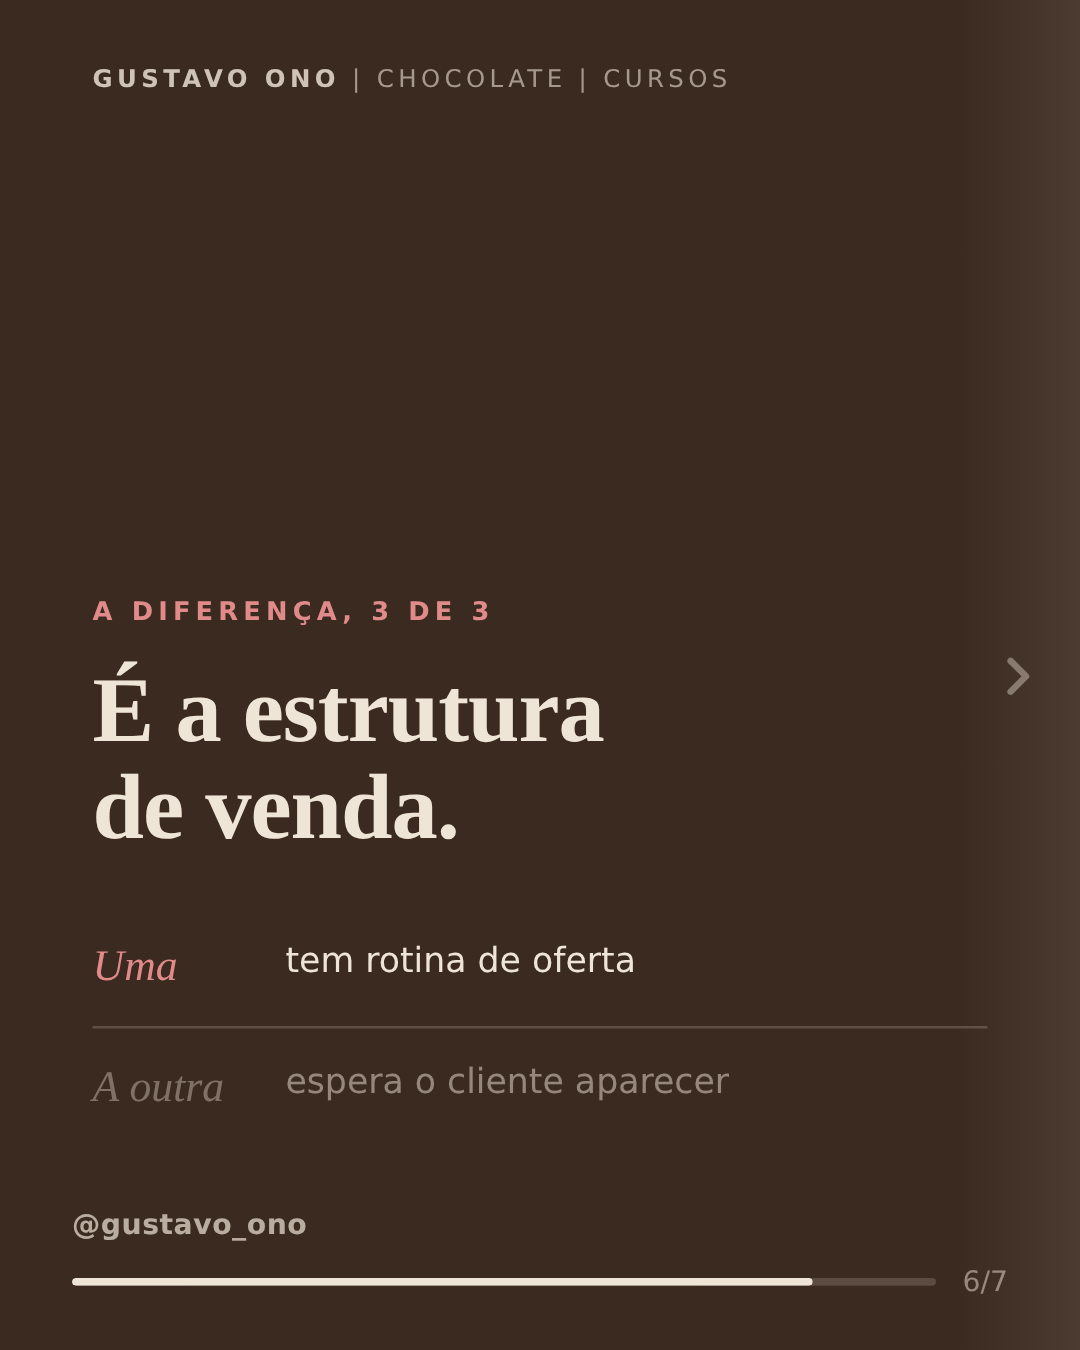
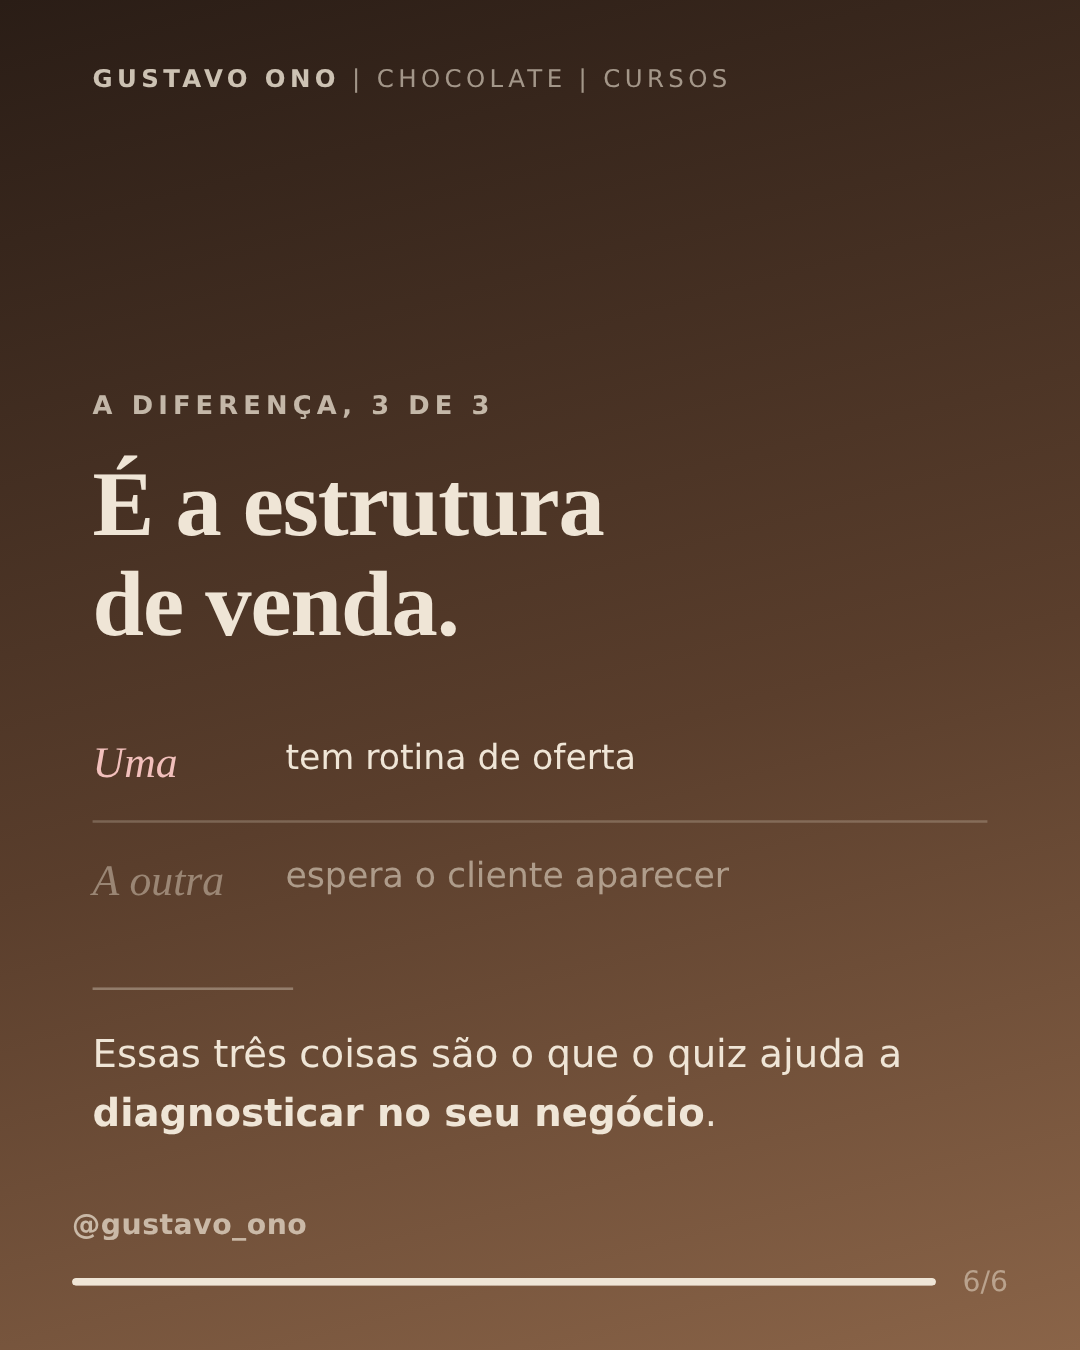
fix(gustavo-ono): usa a copy do cliente na integra, 6 slides
A versao anterior tinha dois erros de copy. O slide 1 trocava a linha do
cliente por um "Duas chocolateiras / Mesmo produto" modelado no criativo de
referencia: os criativos eram espelho de identidade visual, nao fonte de
texto. E havia um setimo slide de CTA com frase inventada, que ainda partia
o bloco 6 do cliente ao meio.

Agora sao 6 slides, um por bloco da copy enviada, sem reescrita e sem
acrescimo. O slide 6 fecha o carrossel sobre o gradiente, sem seta e com a
barra cheia, carregando a frase final sobre o quiz.

Ajustes de layout que vieram junto: quebras de linha manuais no titulo do
slide 1 para o rag ficar regular, e o bloco de contraste "Uma / A outra"
ganhou variante de cor para fundo gradiente, que antes so tinha regra para
creme e cacau.

Claude-Session: https://claude.ai/code/session_01CauAQVWzNLDYnJacSfuF1z

diff --git a/clientes/gustavo-ono/copy/carrosseis/2026-07-30-fatura-bem-fatura-pouco/carrossel.html b/clientes/gustavo-ono/copy/carrosseis/2026-07-30-fatura-bem-fatura-pouco/carrossel.html
@@ -118,17 +118,18 @@ body{
 .vs{margin-top:20px}
 .vs-row{display:flex;gap:13px;align-items:flex-start;padding:12px 0}
 .vs-row + .vs-row{border-top:1px solid var(--cream-line)}
-.bg-dark .vs-row + .vs-row{border-top-color:rgba(239,229,214,.2)}
+.bg-dark .vs-row + .vs-row,.bg-grad .vs-row + .vs-row{border-top-color:rgba(239,229,214,.24)}
 .vs-key{font-family:var(--font-display);font-size:17px;font-style:italic;line-height:1.2;flex:0 0 62px;padding-top:1px}
 .vs-a .vs-key{color:var(--brown)}
 .bg-dark .vs-a .vs-key{color:var(--salmon)}
+.bg-grad .vs-a .vs-key{color:#F2C0BC}
 .vs-b .vs-key{color:var(--brown-soft);opacity:.85}
-.bg-dark .vs-b .vs-key{color:rgba(239,229,214,.45)}
+.bg-dark .vs-b .vs-key,.bg-grad .vs-b .vs-key{color:rgba(239,229,214,.5)}
 .vs-tx{font-size:13.5px;line-height:1.45;font-weight:500}
 .bg-light .vs-a .vs-tx{color:var(--ink)}
 .bg-light .vs-b .vs-tx{color:#8A7565}
-.bg-dark .vs-a .vs-tx{color:var(--cream)}
-.bg-dark .vs-b .vs-tx{color:rgba(239,229,214,.5)}
+.bg-dark .vs-a .vs-tx,.bg-grad .vs-a .vs-tx{color:var(--cream)}
+.bg-dark .vs-b .vs-tx,.bg-grad .vs-b .vs-tx{color:rgba(239,229,214,.55)}
 
 .cta-btn{display:inline-flex;align-items:center;gap:8px;padding:14px 30px;background:var(--cream);color:var(--cocoa);font-family:var(--font-text);font-weight:700;font-size:14px;border-radius:30px}
 </style>
@@ -208,13 +209,12 @@ function vs(uma, outra){
 /* ---------- os slides ---------- */
 const SLIDES = [
 
-  // 1 — gancho. Espelha a estrutura do criativo "Duas confeiteiras."
+  // 1 — gancho
   { bg:'light', pos:'center', html: `
     <div class="bracket">
-      <h1 class="t-xl">Duas<br>chocolateiras.</h1>
-      <p class="body sans" style="margin-top:12px;font-size:15px;"><b>Mesmo</b> produto. <b>Faturamentos</b> diferentes.</p>
+      <h1 class="t-lg" style="font-size:31px;">O que separa<br>a chocolateira que<br>fatura bem da que<br>fatura pouco,</h1>
+      <p class="t-lg t-it" style="font-size:31px;margin-top:8px;">com o mesmo produto</p>
     </div>
-    <p class="body sans" style="margin-top:20px;">O que separa a que fatura bem da que fatura pouco?</p>
   `},
 
   // 2 — não é o produto
@@ -255,22 +255,16 @@ const SLIDES = [
     )}
   `},
 
-  // 6 — é a estrutura de venda
-  { bg:'dark', pos:'bottom', html: `
+  // 6 — é a estrutura de venda, e o fecho no quiz
+  { bg:'grad', pos:'bottom', html: `
     <span class="kicker sans">A diferença, 3 de 3</span>
     <h2 class="t-lg">É a estrutura<br>de venda.</h2>
     ${vs(
       'tem rotina de oferta',
       'espera o cliente aparecer'
     )}
-  `},
-
-  // 7 — CTA
-  { bg:'grad', pos:'center', html: `
-    <span class="kicker sans">Diagnóstico gratuito</span>
-    <h2 class="t-lg">Essas três coisas<br>são o que o quiz<br><span class="t-it">diagnostica</span> no seu<br>negócio.</h2>
-    <p class="body sans" style="margin-bottom:24px;">Leva 3 minutos e o resultado sai na hora.</p>
-    <span class="cta-btn">Clique em Saiba mais</span>
+    <div class="rule"></div>
+    <p class="body sans" style="margin-top:14px;font-size:15px;color:var(--cream);">Essas três coisas são o que o quiz ajuda a <b>diagnosticar no seu negócio</b>.</p>
   `},
 
 ];

diff --git a/clientes/gustavo-ono/copy/carrosseis/2026-07-30-fatura-bem-fatura-pouco/README.md b/clientes/gustavo-ono/copy/carrosseis/2026-07-30-fatura-bem-fatura-pouco/README.md
@@ -2,30 +2,34 @@
 
 **Cliente:** Gustavo Ono (@gustavo_ono)
 **Data:** 2026-07-30
-**Formato:** carrossel 4:5, 7 slides, 1080x1350
+**Formato:** carrossel 4:5, 6 slides, 1080x1350
 **Destino:** quiz de diagnóstico gratuito
 
 ## Arquivos
 
 - `carrossel.html` — preview navegável na moldura do Instagram. Abra no navegador
   e arraste para o lado, ou use as setas do teclado.
-- `slides/slide_1.png` … `slide_7.png` — as peças finais, prontas para subir.
+- `slides/slide_1.png` … `slide_6.png` — as peças finais, prontas para subir.
 
 ## Estrutura
 
 | # | Fundo | Conteúdo |
 |---|---|---|
-| 1 | creme | "Duas chocolateiras. Mesmo produto. Faturamentos diferentes." |
+| 1 | creme | O que separa a chocolateira que fatura bem da que fatura pouco, com o mesmo produto |
 | 2 | cacau | Não é o produto. Talento não é o diferencial. |
 | 3 | creme | Não é o volume. |
 | 4 | cacau | É o cardápio. (Uma / A outra) |
 | 5 | creme | É a precificação. (Uma / A outra) |
-| 6 | cacau | É a estrutura de venda. (Uma / A outra) |
-| 7 | gradiente | CTA: o quiz diagnostica as três. Clique em Saiba mais. |
+| 6 | gradiente | É a estrutura de venda. (Uma / A outra) + o fecho no quiz |
 
-A copy dos slides 1 a 6 é a do cliente, praticamente literal. O slide 7 separa a
-frase final do bloco 6 ("essas três coisas são o que o quiz ajuda a diagnosticar")
-para virar o CTA, já que o último slide não leva seta e fecha o carrossel.
+**A copy é a do cliente, na íntegra, um bloco por slide.** Nada foi reescrito nem
+acrescentado. O slide 6 fecha o carrossel: sem seta, barra cheia, e a frase final
+do bloco 6 ("essas três coisas são o que o quiz ajuda a diagnosticar no seu
+negócio") em destaque sobre o gradiente.
+
+Não há slide de CTA explícito, porque a copy fornecida não tinha um. O botão
+"Saiba mais" do anúncio no Meta e a legenda do post cumprem esse papel. Se quiser
+um sétimo slide só de chamada, é rápido de acrescentar.
 
 ## Identidade
 
@@ -37,6 +41,9 @@ Assinatura no topo e `@gustavo_ono` no rodapé de todos os slides.
 Device criado para este carrossel: o bloco de contraste **"Uma / A outra"**, com
 a chave em serifa itálica, repetido nos slides 4, 5 e 6. É ele que amarra as três
 diferenças visualmente.
+
+Os criativos de referência serviram **só como espelho de identidade visual**
+(paleta, tipografia, assinatura, fios). A copy deles não entra nas peças.
 
 ## Pendência
 
